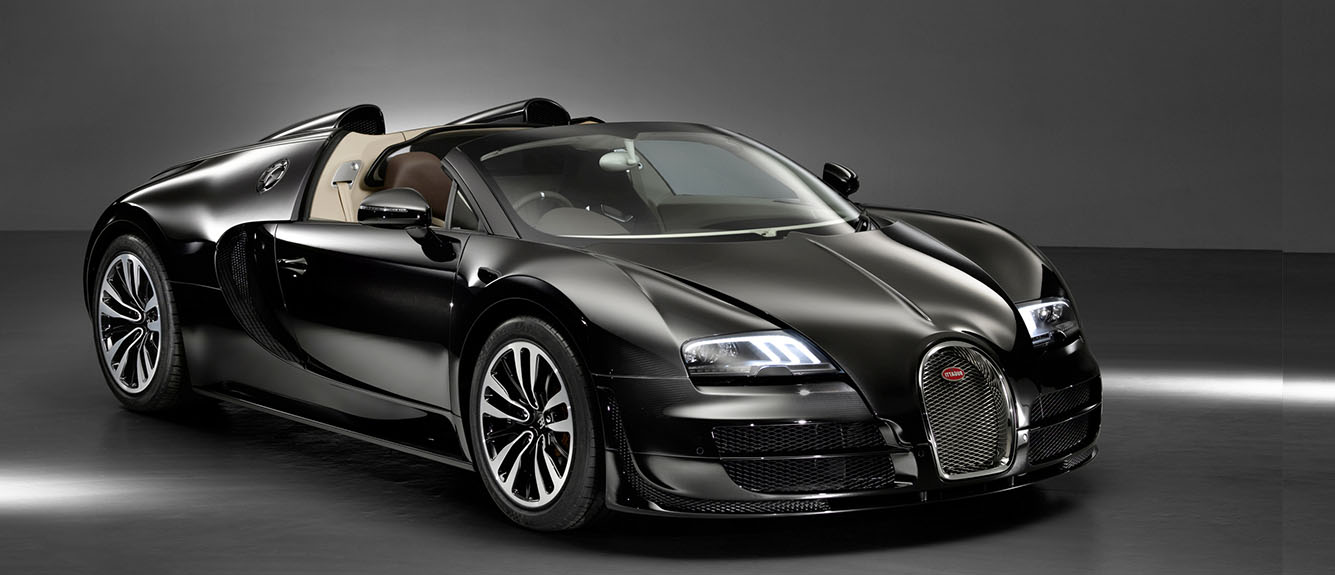
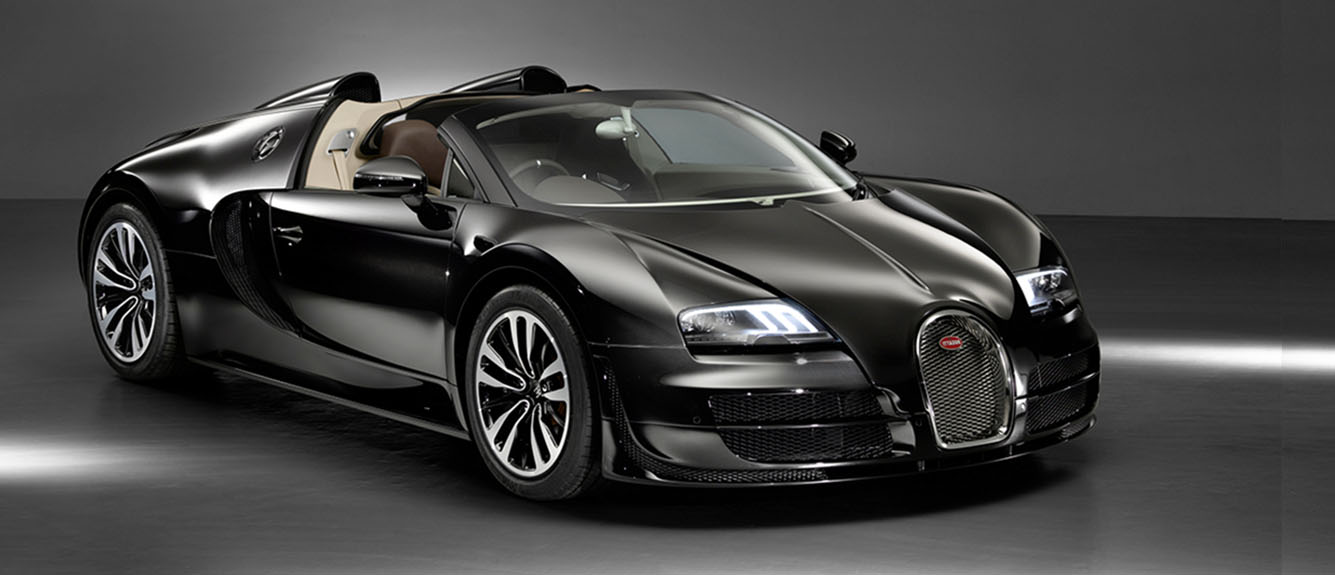
terminando com Homepage no modo em components

diff --git a/src/pages/HomePage.js b/src/pages/HomePage.js
@@ -1,26 +1,17 @@
-import {
-  Flex,
-  Heading,
-  Box,
-  Text,
-  Image,
-  Button,
-  Slider,
-  Grid,
-  SimpleGrid,
-} from "@chakra-ui/react";
+import { Flex, Heading, Box, Text, Image, Button, Slider, Grid } from "@chakra-ui/react";
 import React from "react";
 import Bugatti from "../img/Bugatti3.jpg";
 import MiniBugati from "../img/MiniBugatti.jpg";
+import Tiguan from '../img/tiguan.jpg'
 import Opala from "../img/imgRegister.jpg";
 
 // import CategoryCard from "./CategoryCard";
-import Categories from "../components/home/Categories";
+//import Categories from "../components/home/Categories";
 
 class HomePage extends React.Component {
   render() {
     return (
-      <Flex as="section" direction="column" background="#ffffff">
+      <Flex as="section" direction="column" background="#ffffff" paddingBottom="5rem">
         {/* IMAGEM GRANDE DE CARRO COM BOTÃO E FRASE DE CHAMADA */}
         <Flex
           minW="100%"
@@ -31,35 +22,90 @@ class HomePage extends React.Component {
           bgPos="center"
           bgRepeat="no-repeat"
           bgSize="cover"
-          bgImage={`url('${Opala}')`}
+          bgImage={`url('${Bugatti}')`}
           bgColor="rgba(0,0,0,0, 0.5)"
         >
-          {/* 1 RETANGULO COM PROPAGANDA   */}
 
-          <Flex justify="space-around" alignItems="center" w="100%" h="100%">
-            <Box></Box>
-            <Flex direction="column" marginLeft="3rem" padding="2rem">
+          <Flex justify="space-around"  w="100%" minH="100%">
+            <Box w="60vw"></Box>
+            <Flex direction="column" alignSelf="flex-start" marginLeft="3rem" padding="2rem">
               <Heading
                 as="h1"
                 fontFamily="'Poppins', sans-serif"
                 fontWeight="900"
                 color="#EF6F6C"
                 fontSize="72px"
-                textAlign="center"
+                textAlign="right"
+                textShadow="1px 1px 3px #000000"
               >
                 FUTURECAR
               </Heading>
 
-              <Heading paddingBottom="1rem" fontSize="36px" as="h3">
-                going beyond
+              <Heading paddingBottom="1rem" fontSize="36px" as="h3" textShadow="1px 1px 3px #000000" textAlign="right">
+                GOING BEYOND
               </Heading>
               <Button alignSelf="flex-end" colorScheme="button">
                 Saiba mais
               </Button>
             </Flex>
           </Flex>
-          {/* 5 RETANGULOS COM IMAGENS DAS CATEGORIAS OFERECIDAS */}
         </Flex>
+
+           {/* 1 RETANGULO - VINHETA   */}
+
+        <Flex w="100%" h="200px">
+          <Text
+            w="90%"
+            h="91%"
+            color="#000000"
+            textAlign="justify"
+            margin="3%" 
+            fontSize="30px"           
+          >
+            "Neque porro quisquam est qui dolorem ipsum quia dolor sit amet, consectetur, adipisci velit..."
+            "There is no one who loves pain itself, who seeks after it and wants to have it, simply because it is pain..
+          </Text>
+        </Flex>
+
+
+          {/* 1 RETANGULO - com 2 div - div-1 com dizeres  div-2 com imagem */}
+
+          <Box w="100%" h="380" background="#ffffff">
+          {/* ESPAÇO EM BRANCO - SEPARADOR   */}
+          <Heading w="100%" h="20px" />
+
+          <Grid
+            templateColumns="repeat(2, 1fr)"
+            gap={0}
+            w="95%"
+            h="350px"
+            marginLeft="2%"
+            color="#000000"
+            textAlign="justify"
+            fontWeight="500"
+            fontSize="16px"
+          >
+            <Box w="100%" h="350px" >
+              <Box w="78%" h="60%" marginTop="10%" marginLeft="12%" fontSize="24px">
+                "Neque porro quisquam est qui dolorem ipsum quia dolor sit amet,
+                consectetur, adipisci velit." "There is no one who loves pain itself, 
+                who seeks after it and wants to have it, simply because it is pain..
+              </Box>
+            </Box>
+
+            <Box w="100%" h="350px">
+              <Image
+                boxSize="100%"
+                objectFit="cover"
+                src={Tiguan}
+                alt="Segun Adebayo"
+              />
+            </Box>
+          </Grid>
+        </Box>        
+
+          {/* 5 RETANGULOS COM IMAGENS DAS CATEGORIAS OFERECIDAS */}
+        
         <Box w="100%" h="380px" background="#ffffff">
           <Heading
             w="100%"
@@ -134,7 +180,7 @@ class HomePage extends React.Component {
         </Box>
 
         {/* 2 FILERAS COM TRÊS IMAGENS *** DESTAQUES DO MÊS *** */}
-        <Box w="100%" h="880px" background="#ffffff">
+        <Box w="100%" h="480px" background="#ffffff">
           <Heading
             w="100%"
             h="90px"
@@ -148,7 +194,7 @@ class HomePage extends React.Component {
             templateColumns="repeat(3, 1fr)"
             gap={6}
             w="95%"
-            h="400px"
+            h="450px"
             marginLeft="2%"
             color="#000000"
             textAlign="center"
@@ -195,9 +241,10 @@ class HomePage extends React.Component {
             </Box>
           </Grid>
         </Box>
-        <Box w="100%" h="" background="#ffffff">
-          {/* ESPAÇO EM BRANCO - SEPARADOR   */}
-          <Heading w="100%" h="20px" />
+
+        <Box w="100%" h="600" background="#ffffff">
+          {/* ESPAÇO EM BRANCO - SEPARADOR   
+          <Heading w="100%" h="20px" />*/}
 
           <Grid
             templateColumns="repeat(2, 1fr)"
@@ -218,7 +265,7 @@ class HomePage extends React.Component {
               <Image
                 boxSize="100%"
                 objectFit="cover"
-                src={MiniBugati}
+                src={Tiguan}
                 alt="Segun Adebayo"
               />
             </Box>
@@ -231,16 +278,10 @@ class HomePage extends React.Component {
               <Image
                 boxSize="100%"
                 objectFit="cover"
-                src={MiniBugati}
+                src={Tiguan}
                 alt="Segun Adebayo"
               />
             </Box>
-
-            {/*<Box w="100%" h="200px" >
-      <Text >"Neque porro quisquam est qui dolorem ipsum quia dolor sit amet, consectetur, adipisci velit."</Text> 
-      <Image boxSize="100%" objectFit="cover"
-      src={MiniBugati} alt="Segun Adebayo" />    
-    </Box>*/}
           </Grid>
         </Box>
 
